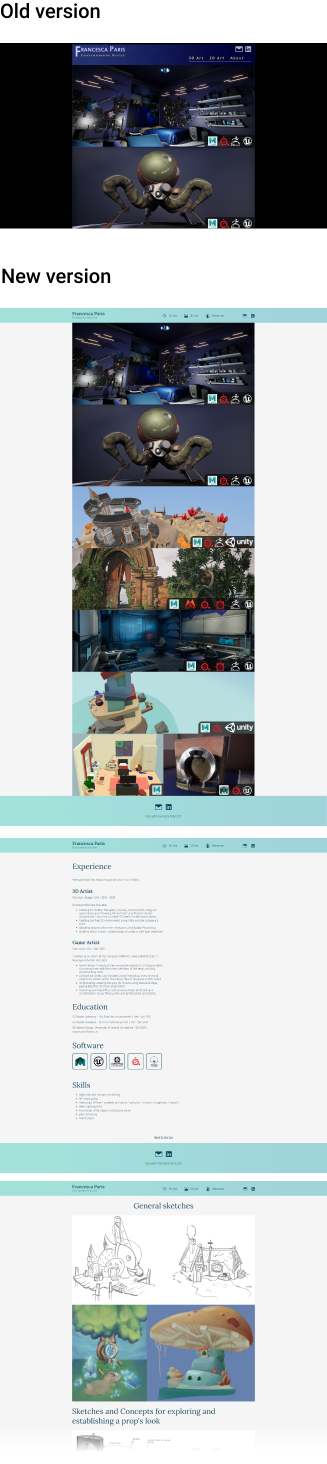
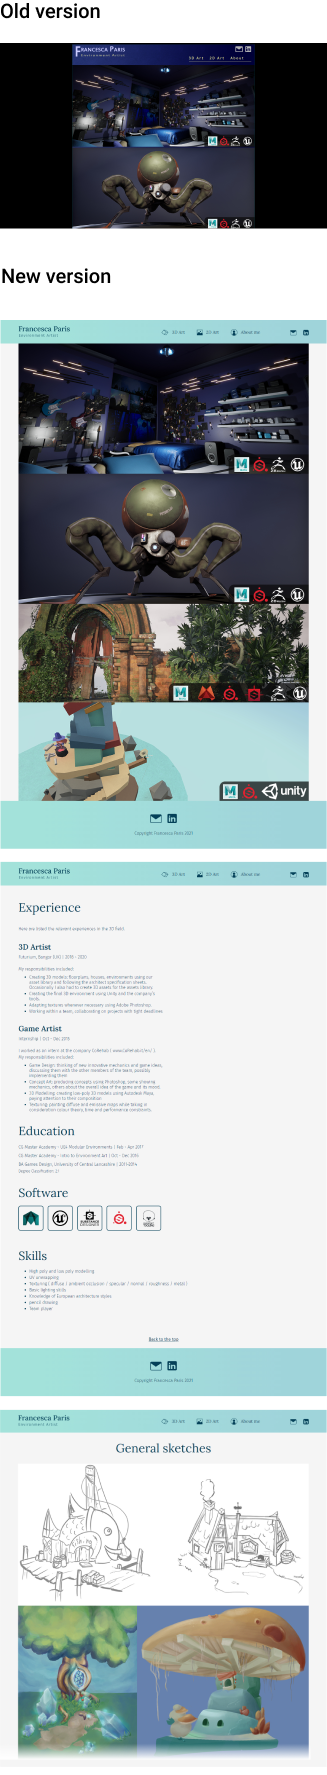
Updated final screens images

diff --git a/css/style.css b/css/style.css
@@ -930,11 +930,14 @@ picture .logo {
     padding-bottom: 32px;
   }
 
+  /*  it looks this section isn't getting used
+
   .menu-items {
     position: absolute;
     top: 40px;
     right: 24px;
   }
+  */
 
   .col-sm-2 {
     width: 16.66%;
@@ -1193,6 +1196,10 @@ Medium devices (640px and larger)
     padding-top: 12px;
   }
 
+  .space-bottom-md-52 {
+    padding-bottom: 52px;
+  }
+
   .space-bottom-md-108 {
     padding-bottom: 108px;
   }
@@ -1342,6 +1349,10 @@ Large devices (1024px or larger)
 
   .space-bottom-36-lg {
     padding-bottom: 36px;
+  }
+
+  .space-bottom-72-lg {
+    padding-bottom: 72px;
   }
 
   .container-lg {

diff --git a/portfolio-redesign.html b/portfolio-redesign.html
@@ -91,7 +91,7 @@
       </div>
 
       <!-- Final screens section -->
-      <div class="row-nm">
+      <div class="row-nm space-bottom space-bottom-72-lg">
           <div class="col-12">
             <h2 class="space-bottom-36-lg">Final screens</h2>
             <picture>
